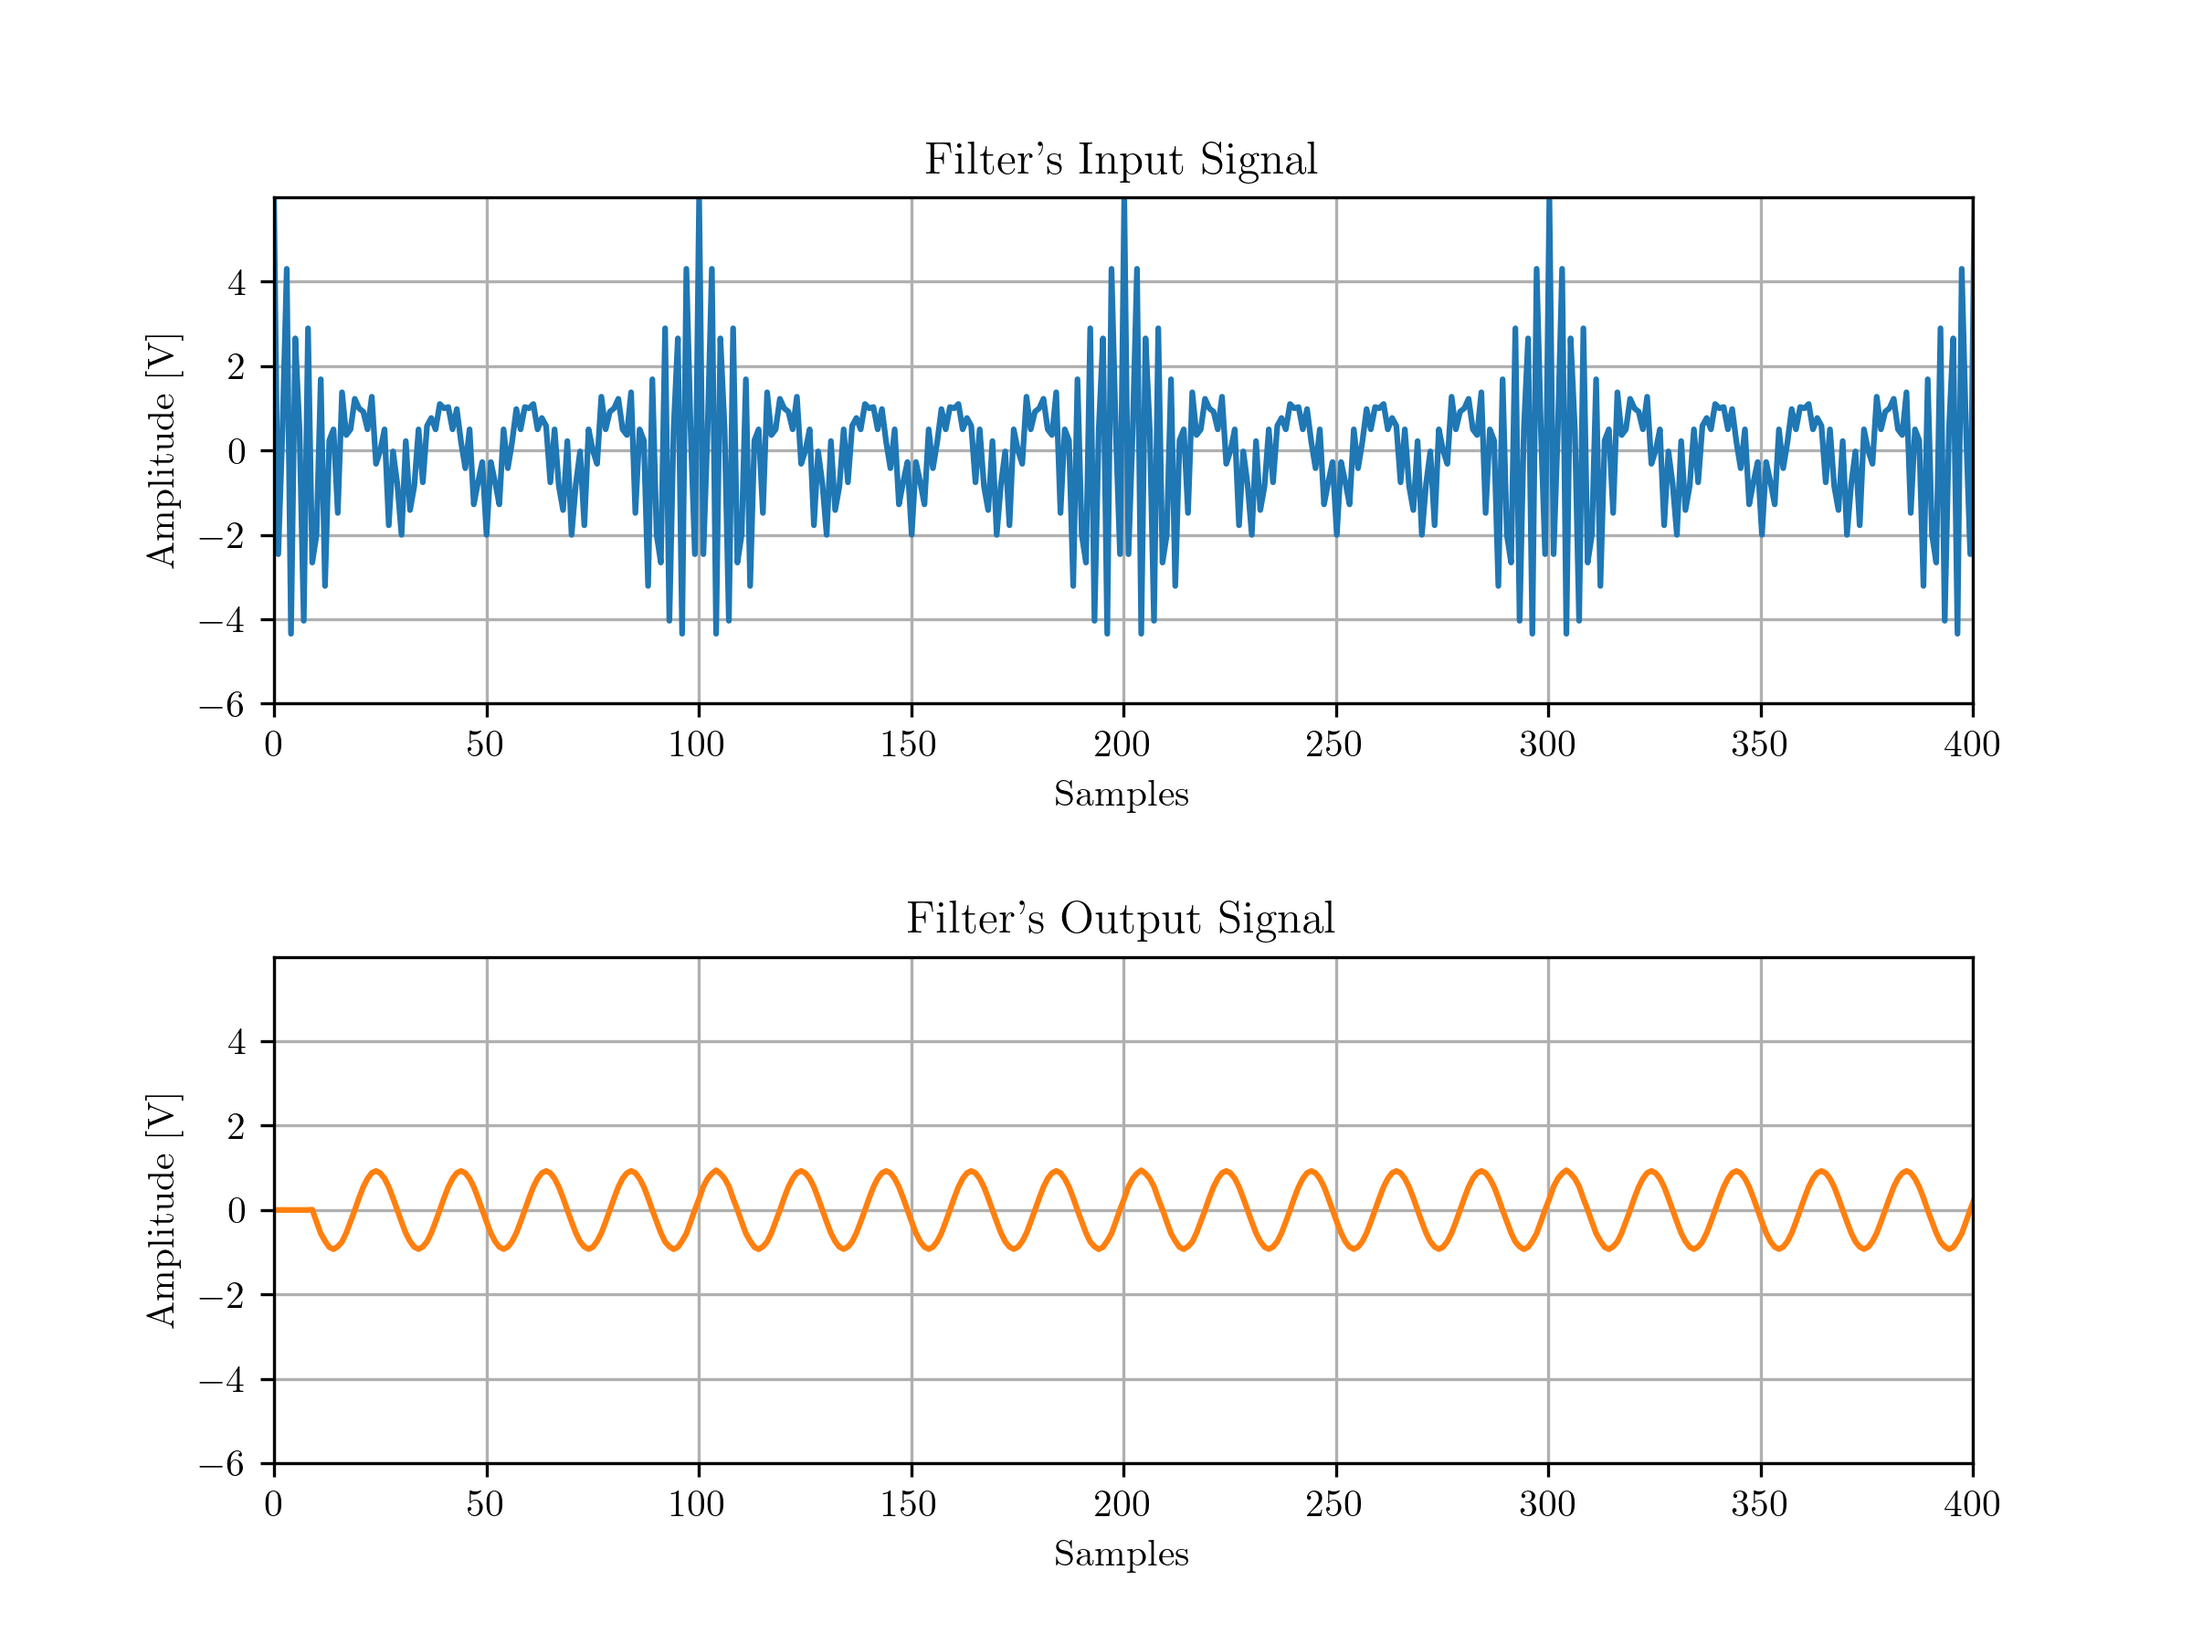
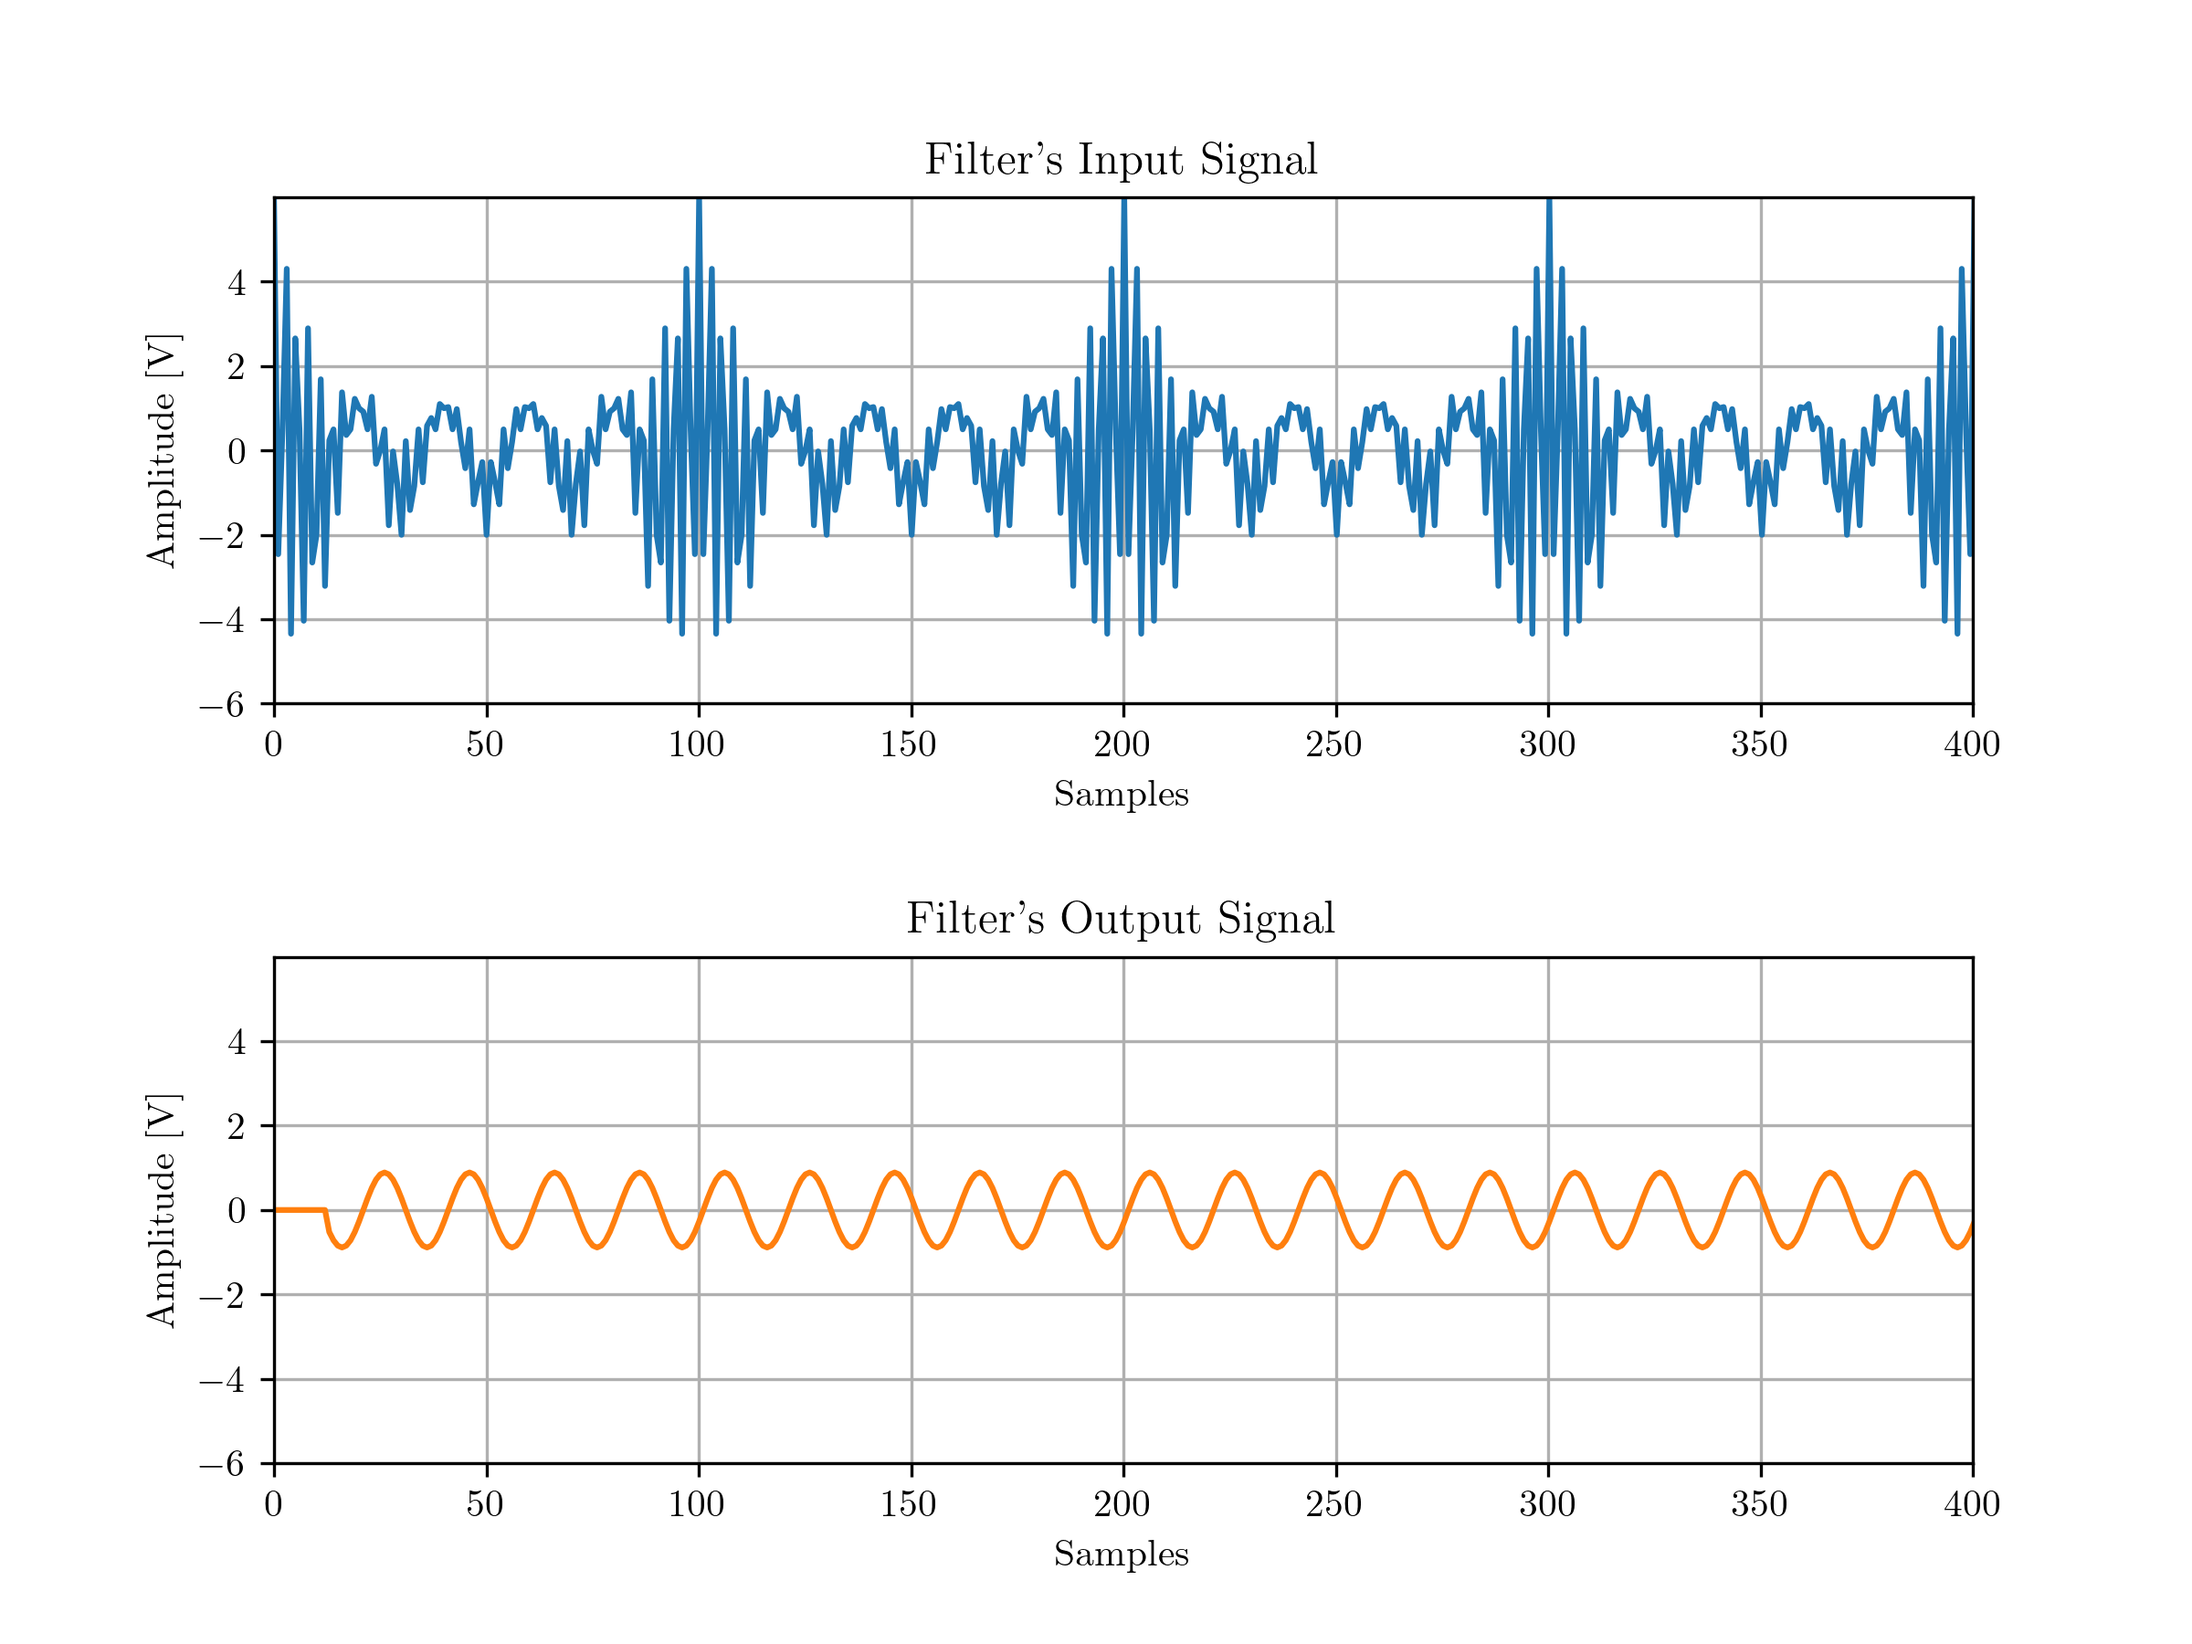
Nuevo prototipo del filtro en Python.

Changed region(s): [[0.125, 0.7156, 0.9062, 0.7778]]

diff --git a/TP_Final/Prototipo/FIR_Filter_Prototype_01.py b/TP_Final/Prototipo/FIR_Filter_Prototype_01.py
@@ -41,12 +41,10 @@ def input_signal(f, f_sampling, N):
     t = np.linspace(0, (N-1)/f_sampling, N)
 
     # Signal
-    # x = A*np.sin(2*np.pi*f*t) + A*np.sin(2*np.pi*(3000)*t) + A*np.sin(2*np.pi*(4000)*t) + A*np.sin(2*np.pi*(5000)*t)
-
     x = np.cos(2 * np.pi * f * t)
 
     for i in range(5):
-        f_actual = 350000 + (i * 100)  # Incrementa la frecuencia en pasos de 1000 Hz
+        f_actual = 350000 + (i * 1000)  # Incrementa la frecuencia en pasos de 1000 Hz
         x = x + np.cos(2 * np.pi * f_actual * t)
 
     # Add noise
@@ -64,7 +62,6 @@ def filter_response(f_cutoff, M):
     # N: Filter length, must be odd.
 
     # Compute sinc filter.
-    # h = np.sin(2 * np.pi * f_cutoff * (np.arange(M) - (M - 1) / 2)) / (np.arange(M) - (M - 1) / 2)
     h = np.sinc(2 * f_cutoff * (np.arange(M) - (M - 1) / 2))
 
     # Apply window.
@@ -97,7 +94,7 @@ def plot_fir_response(h, f_sampling):
     plt.title('Magnitude Response', fontsize=12)
     plt.ylabel('Magnitude [dB]', fontsize=10)
     plt.xlabel('Frequency [Hz]', fontsize=10)
-    plt.xlim([0, 500000]) # Set x-axis limits
+    plt.xlim([0, 5*f_cutoff]) # Set x-axis limits
     plt.grid()
 
     # Grafica la fase de la respuesta en frecuencia
@@ -106,7 +103,7 @@ def plot_fir_response(h, f_sampling):
     plt.title('Phase Response', fontsize=12)
     plt.ylabel('Phase [degrees]', fontsize=10)
     plt.xlabel('Frequency [Hz]', fontsize=10)
-    plt.xlim([0, 500000]) # Set x-axis limits
+    plt.xlim([0, 5*f_cutoff]) # Set x-axis limits
     plt.grid()
 
     # Adjust subplots layout
@@ -121,7 +118,7 @@ def plot_fir_response(h, f_sampling):
     plt.title('Magnitude Response', fontsize=12)
     plt.ylabel('Magnitude [dB]', fontsize=10)
     plt.xlabel('Frequency [Hz]', fontsize=10)
-    plt.xlim([0, 500000]) # Set x-axis limits
+    plt.xlim([0, 5*f_cutoff]) # Set x-axis limits
     plt.grid()
 
     # Save plot as .png file and display it
@@ -141,7 +138,7 @@ def plot_input_output(x,y):
     plt.title('Filter\'s Input Signal', fontsize=12)  # Set title and font size
     plt.xlabel('Samples', fontsize=10)  # Set x-axis label and font size
     plt.ylabel('Amplitude [V]', fontsize=10)  # Set y-axis label and font size
-    plt.xlim([0, 200]) # Set x-axis limits
+    plt.xlim([0, 400]) # Set x-axis limits
     plt.ylim([-6, 6])  # Set y-axis limits
     plt.yticks(np.arange(-6, 6, 2))  # Cambia el paso según tus necesidades
     plt.grid() # Enable grid
@@ -151,7 +148,7 @@ def plot_input_output(x,y):
     plt.title('Filter\'s Output Signal', fontsize=12)  # Set title and font size
     plt.xlabel('Samples', fontsize=10)  # Set x-axis label and font size
     plt.ylabel('Amplitude [V]', fontsize=10)  # Set y-axis label and font size
-    plt.xlim([0, 200]) # Set x-axis limits
+    plt.xlim([0, 400]) # Set x-axis limits
     plt.ylim([-6, 6])  # Set y-axis limits
     plt.yticks(np.arange(-6, 6, 2))  # Cambia el paso según tus necesidades
     plt.grid() # Enable grid
@@ -169,14 +166,14 @@ def plot_input_output(x,y):
 # ---------------------------------------------------------------------------------------------- #
 
 N = 1001 # Signal length.
-M = 9 # Filter length.
+M = 13 # Filter length.
 f = 50000 # Signal frequency.
 f_sampling = 1000000 # Sampling frequency.
-f_cutoff = 100/f_sampling; # Cutoff frequency as a fraction of the sampling rate.
+f_cutoff = 100000 # Cutoff frequency 
 
 # Generate filter coefficients.
-# h = filter_response(f_cutoff, M)
-h = np.array([0, 0.02, 0.1, 0.23, 0.3, 0.23, 0.1, 0.02, 0])*100
+h = filter_response(f_cutoff/f_sampling, M)
+# h = np.array([0, 0.02, 0.1, 0.23, 0.3, 0.23, 0.1, 0.02, 0])*100
 sum_coefficients = np.sum(h)
 print(h)
 
@@ -190,8 +187,8 @@ for i in range(M, N):
     # Convolve filter with signal.
     y[i] = np.sum(h * x[i-M+1:i+1])
 
-y = y/sum_coefficients
-h = h/100
+# y = y/sum_coefficients
+# h = h/100
 
 plot_input_output(x,y)
 

diff --git a/TP_Final/Prototipo/FIR_Filter_Prototype_00.py b/TP_Final/Prototipo/FIR_Filter_Prototype_00.py
@@ -41,12 +41,10 @@ def input_signal(f, f_sampling, N):
     t = np.linspace(0, (N-1)/f_sampling, N)
 
     # Signal
-    # x = A*np.sin(2*np.pi*f*t) + A*np.sin(2*np.pi*(3000)*t) + A*np.sin(2*np.pi*(4000)*t) + A*np.sin(2*np.pi*(5000)*t)
-
     x = np.cos(2 * np.pi * f * t)
 
     for i in range(5):
-        f_actual = 3500 + (i * 100)  # Incrementa la frecuencia en pasos de 1000 Hz
+        f_actual = 35000 + (i * 1000)  # Incrementa la frecuencia en pasos de 1000 Hz
         x = x + np.cos(2 * np.pi * f_actual * t)
 
     # Add noise
@@ -64,7 +62,6 @@ def filter_response(f_cutoff, M):
     # N: Filter length, must be odd.
 
     # Compute sinc filter.
-    # h = np.sin(2 * np.pi * f_cutoff * (np.arange(M) - (M - 1) / 2)) / (np.arange(M) - (M - 1) / 2)
     h = np.sinc(2 * f_cutoff * (np.arange(M) - (M - 1) / 2))
 
     # Apply window.
@@ -97,7 +94,7 @@ def plot_fir_response(h, f_sampling):
     plt.title('Magnitude Response', fontsize=12)
     plt.ylabel('Magnitude [dB]', fontsize=10)
     plt.xlabel('Frequency [Hz]', fontsize=10)
-    plt.xlim([0, 5000]) # Set x-axis limits
+    plt.xlim([0, 5*f_cutoff]) # Set x-axis limits
     plt.grid()
 
     # Grafica la fase de la respuesta en frecuencia
@@ -106,7 +103,7 @@ def plot_fir_response(h, f_sampling):
     plt.title('Phase Response', fontsize=12)
     plt.ylabel('Phase [degrees]', fontsize=10)
     plt.xlabel('Frequency [Hz]', fontsize=10)
-    plt.xlim([0, 5000]) # Set x-axis limits
+    plt.xlim([0, 5*f_cutoff]) # Set x-axis limits
     plt.grid()
 
     # Adjust subplots layout
@@ -121,7 +118,7 @@ def plot_fir_response(h, f_sampling):
     plt.title('Magnitude Response', fontsize=12)
     plt.ylabel('Magnitude [dB]', fontsize=10)
     plt.xlabel('Frequency [Hz]', fontsize=10)
-    plt.xlim([0, 5000]) # Set x-axis limits
+    plt.xlim([0, 5*f_cutoff]) # Set x-axis limits
     plt.grid()
 
     # Save plot as .png file and display it
@@ -169,14 +166,14 @@ def plot_input_output(x,y):
 # ---------------------------------------------------------------------------------------------- #
 
 N = 1001 # Signal length.
-M = 9 # Filter length.
-f = 500 # Signal frequency.
-f_sampling = 10000 # Sampling frequency.
-f_cutoff = 100/f_sampling; # Cutoff frequency as a fraction of the sampling rate.
+M = 13 # Filter length.
+f = 5000 # Signal frequency.
+f_sampling = 100000 # Sampling frequency.
+f_cutoff = 10000 # Cutoff frequency 
 
 # Generate filter coefficients.
-# h = filter_response(f_cutoff, M)
-h = np.array([0, 0.02, 0.1, 0.23, 0.3, 0.23, 0.1, 0.02, 0])*100
+h = filter_response(f_cutoff/f_sampling, M)
+# h = np.array([0, 0.02, 0.1, 0.23, 0.3, 0.23, 0.1, 0.02, 0])*100
 sum_coefficients = np.sum(h)
 print(h)
 
@@ -190,8 +187,8 @@ for i in range(M, N):
     # Convolve filter with signal.
     y[i] = np.sum(h * x[i-M+1:i+1])
 
-y = y/sum_coefficients
-h = h/100
+# y = y/sum_coefficients
+# h = h/100
 
 plot_input_output(x,y)
 
